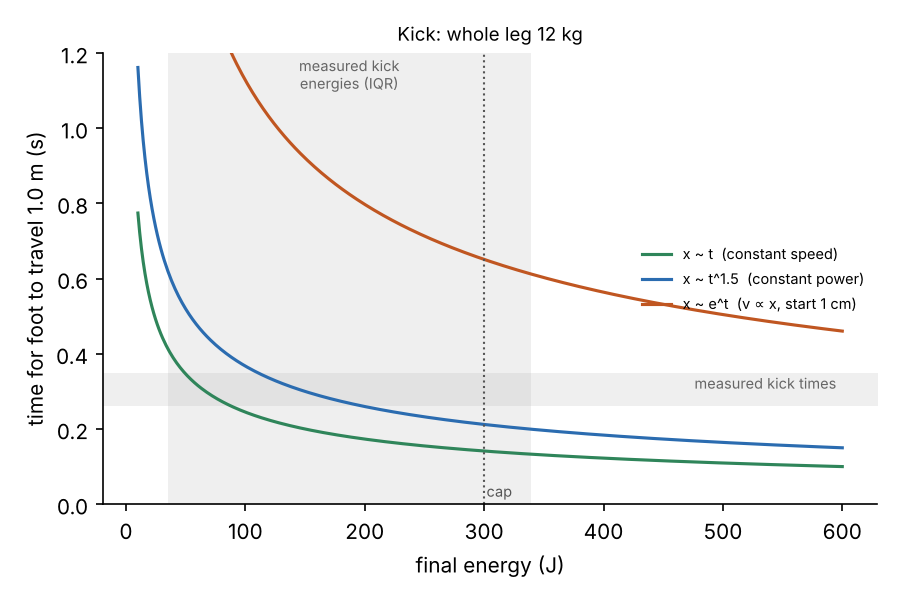
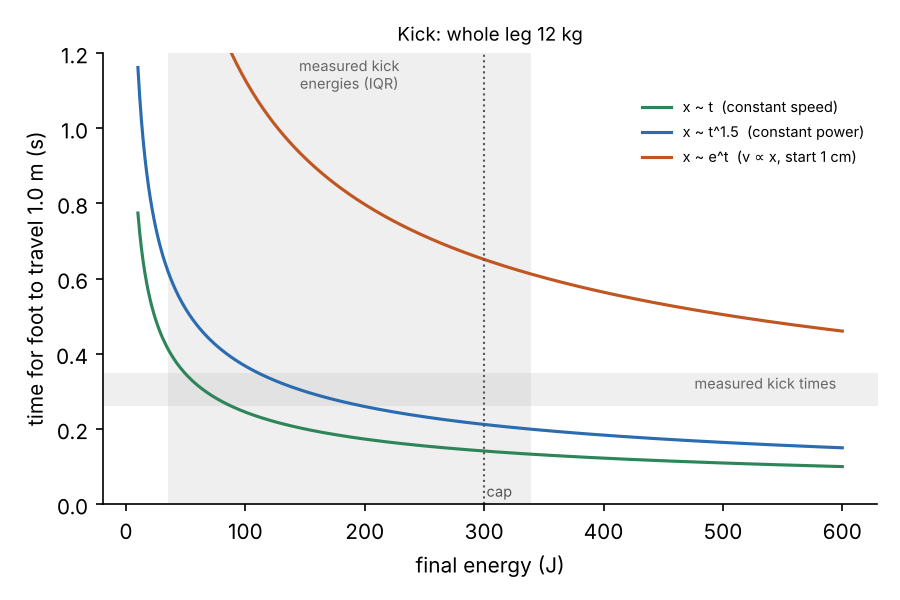
Kick plot: move legend off the curves
Claude-Session: https://claude.ai/code/session_01RGpbufgYSJT2n4v1xECmZw

diff --git a/docs/combat/plots/extension_profiles_kick.py b/docs/combat/plots/extension_profiles_kick.py
@@ -15,7 +15,7 @@ for k, lab, c in [(1, "x ~ t  (constant speed)", "#2f855a"),
     ax.plot(E, k * d / vf, color=c, label=lab)
 ax.axvline(300, color="#555", ls=":", lw=1); ax.text(302, .02, "cap", fontsize=7, color="#555")
 ax.set_xlabel("final energy (J)"); ax.set_ylabel("time for foot to travel 1.0 m (s)")
-ax.set_ylim(0, 1.2); ax.legend(fontsize=7, frameon=False, loc="center right")
+ax.set_ylim(0, 1.2); ax.legend(fontsize=7, frameon=False, loc="upper right", bbox_to_anchor=(1, .93))
 ax.set_title("Kick: whole leg 12 kg", fontsize=9)
 for s in ("top", "right"): ax.spines[s].set_visible(False)
 fig.tight_layout(); fig.savefig("docs/combat/plots/extension_profiles_kick.png")
